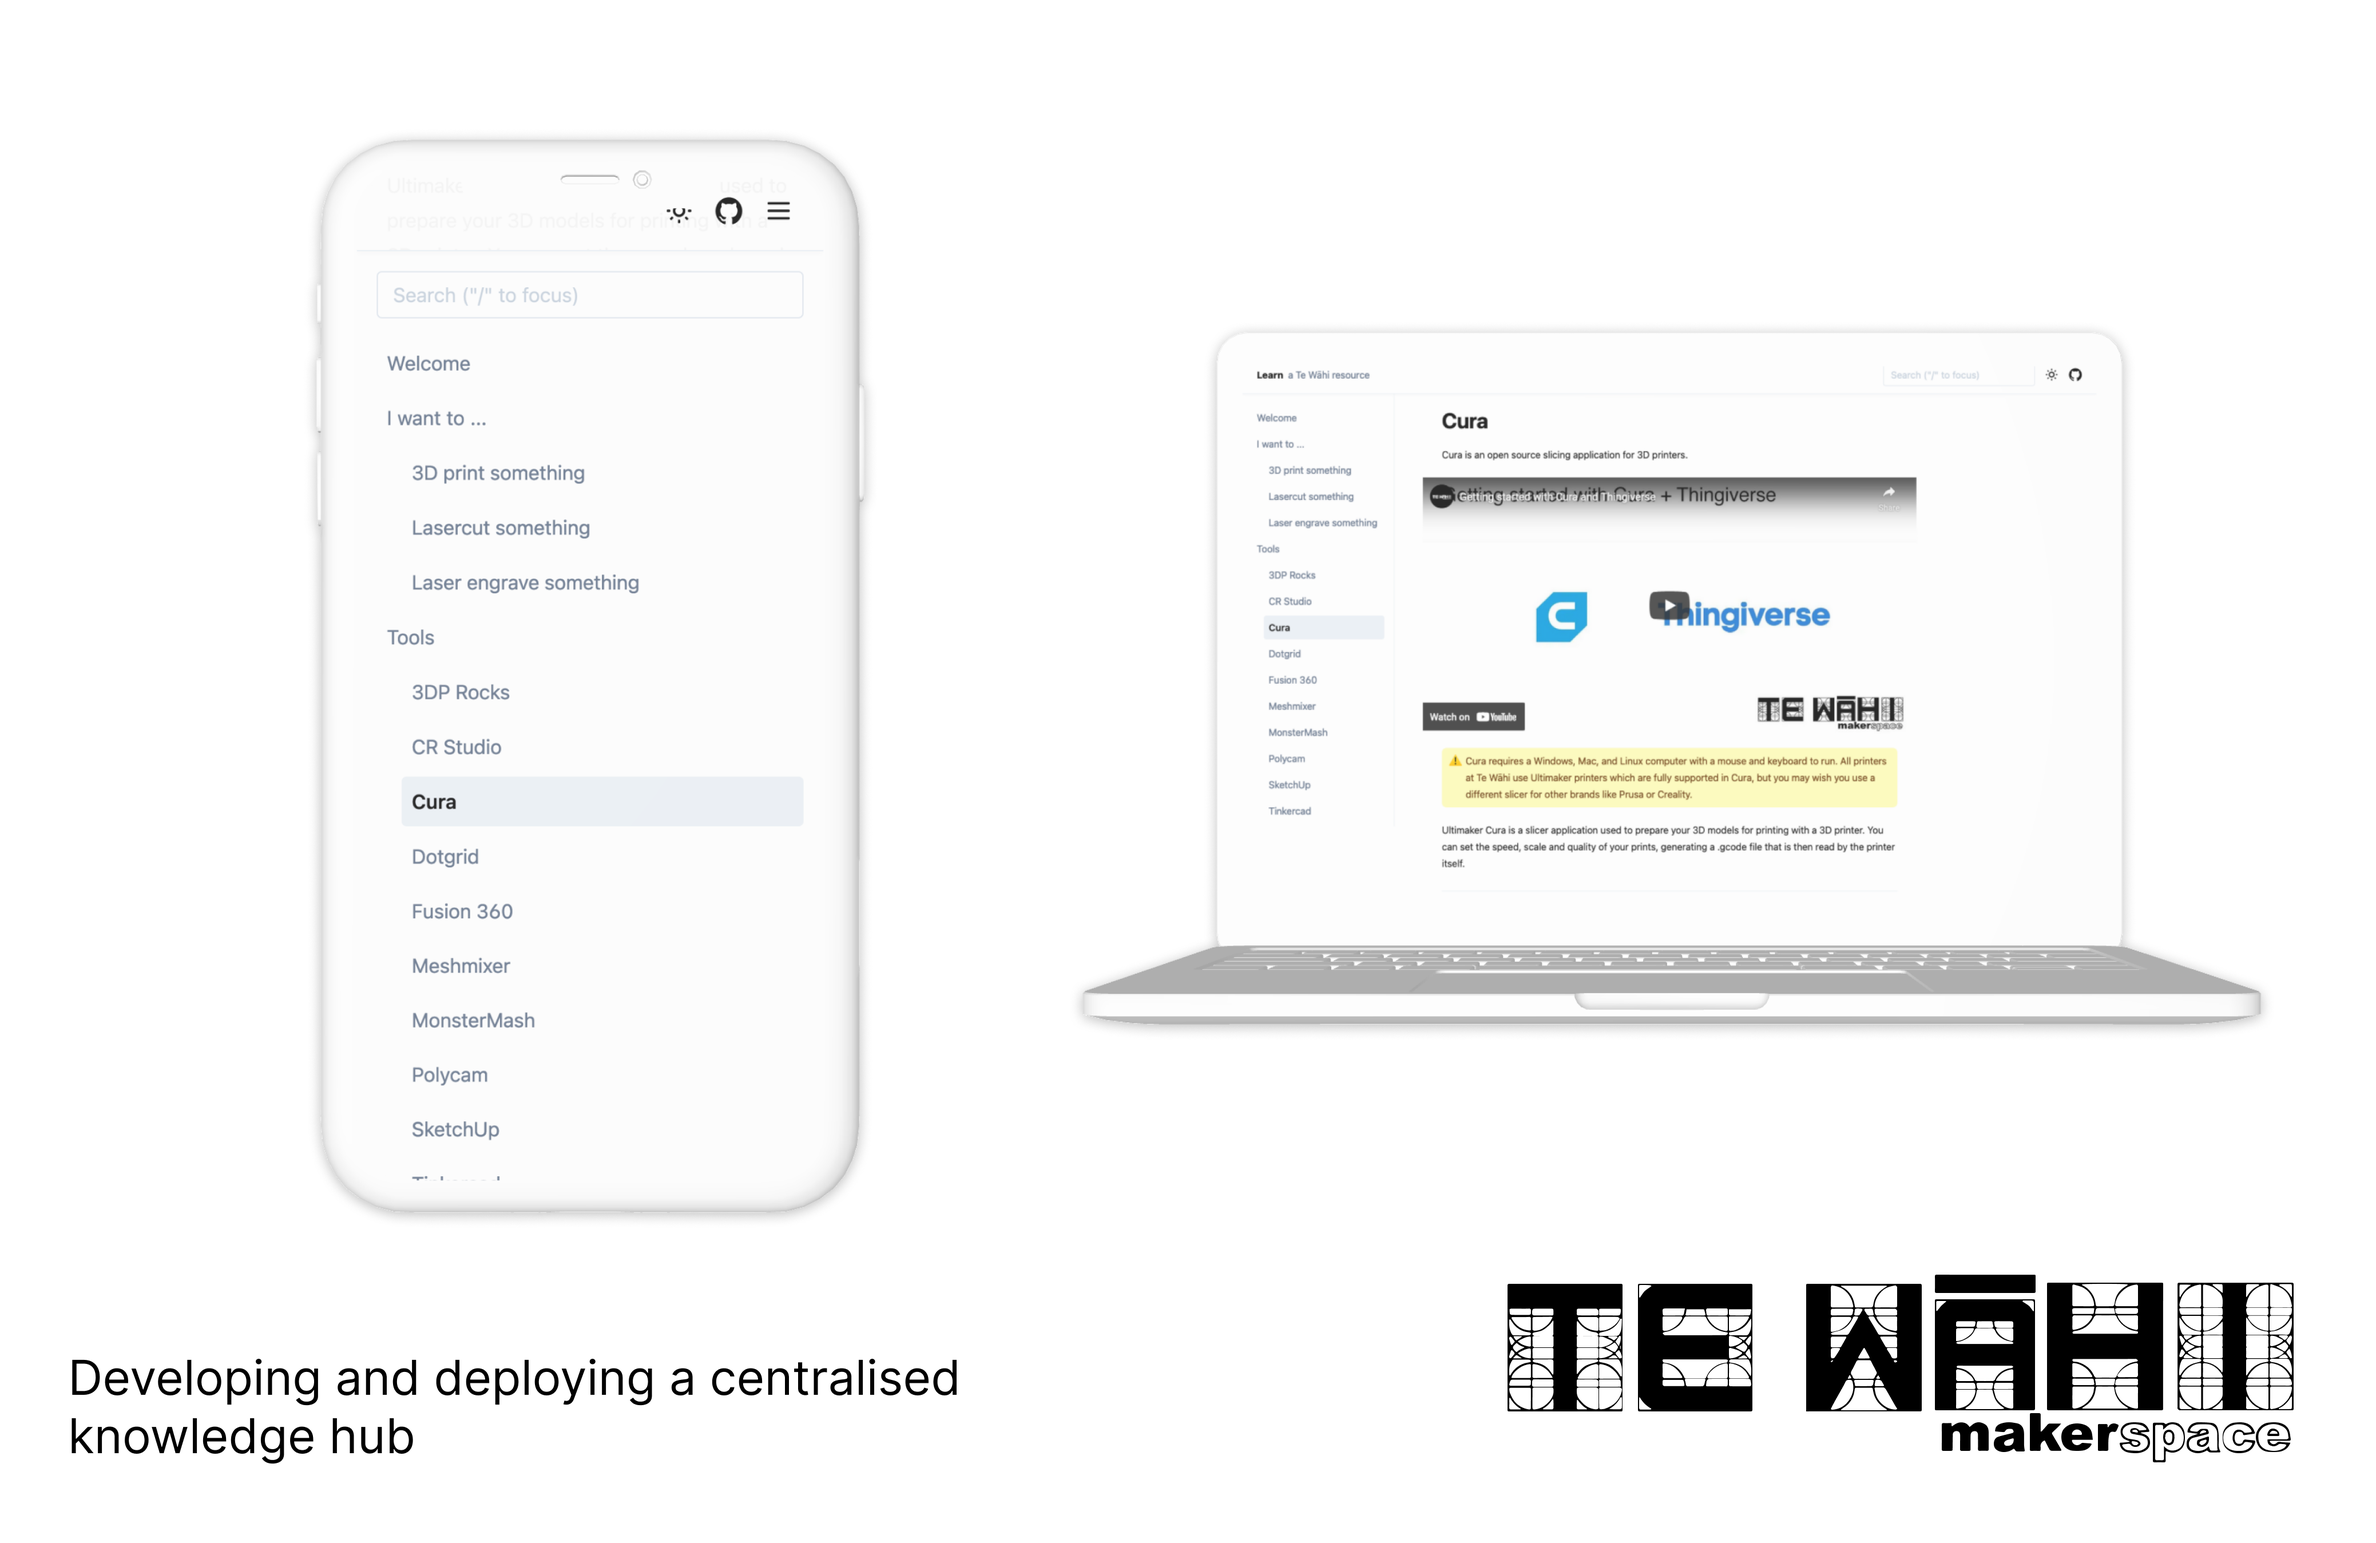
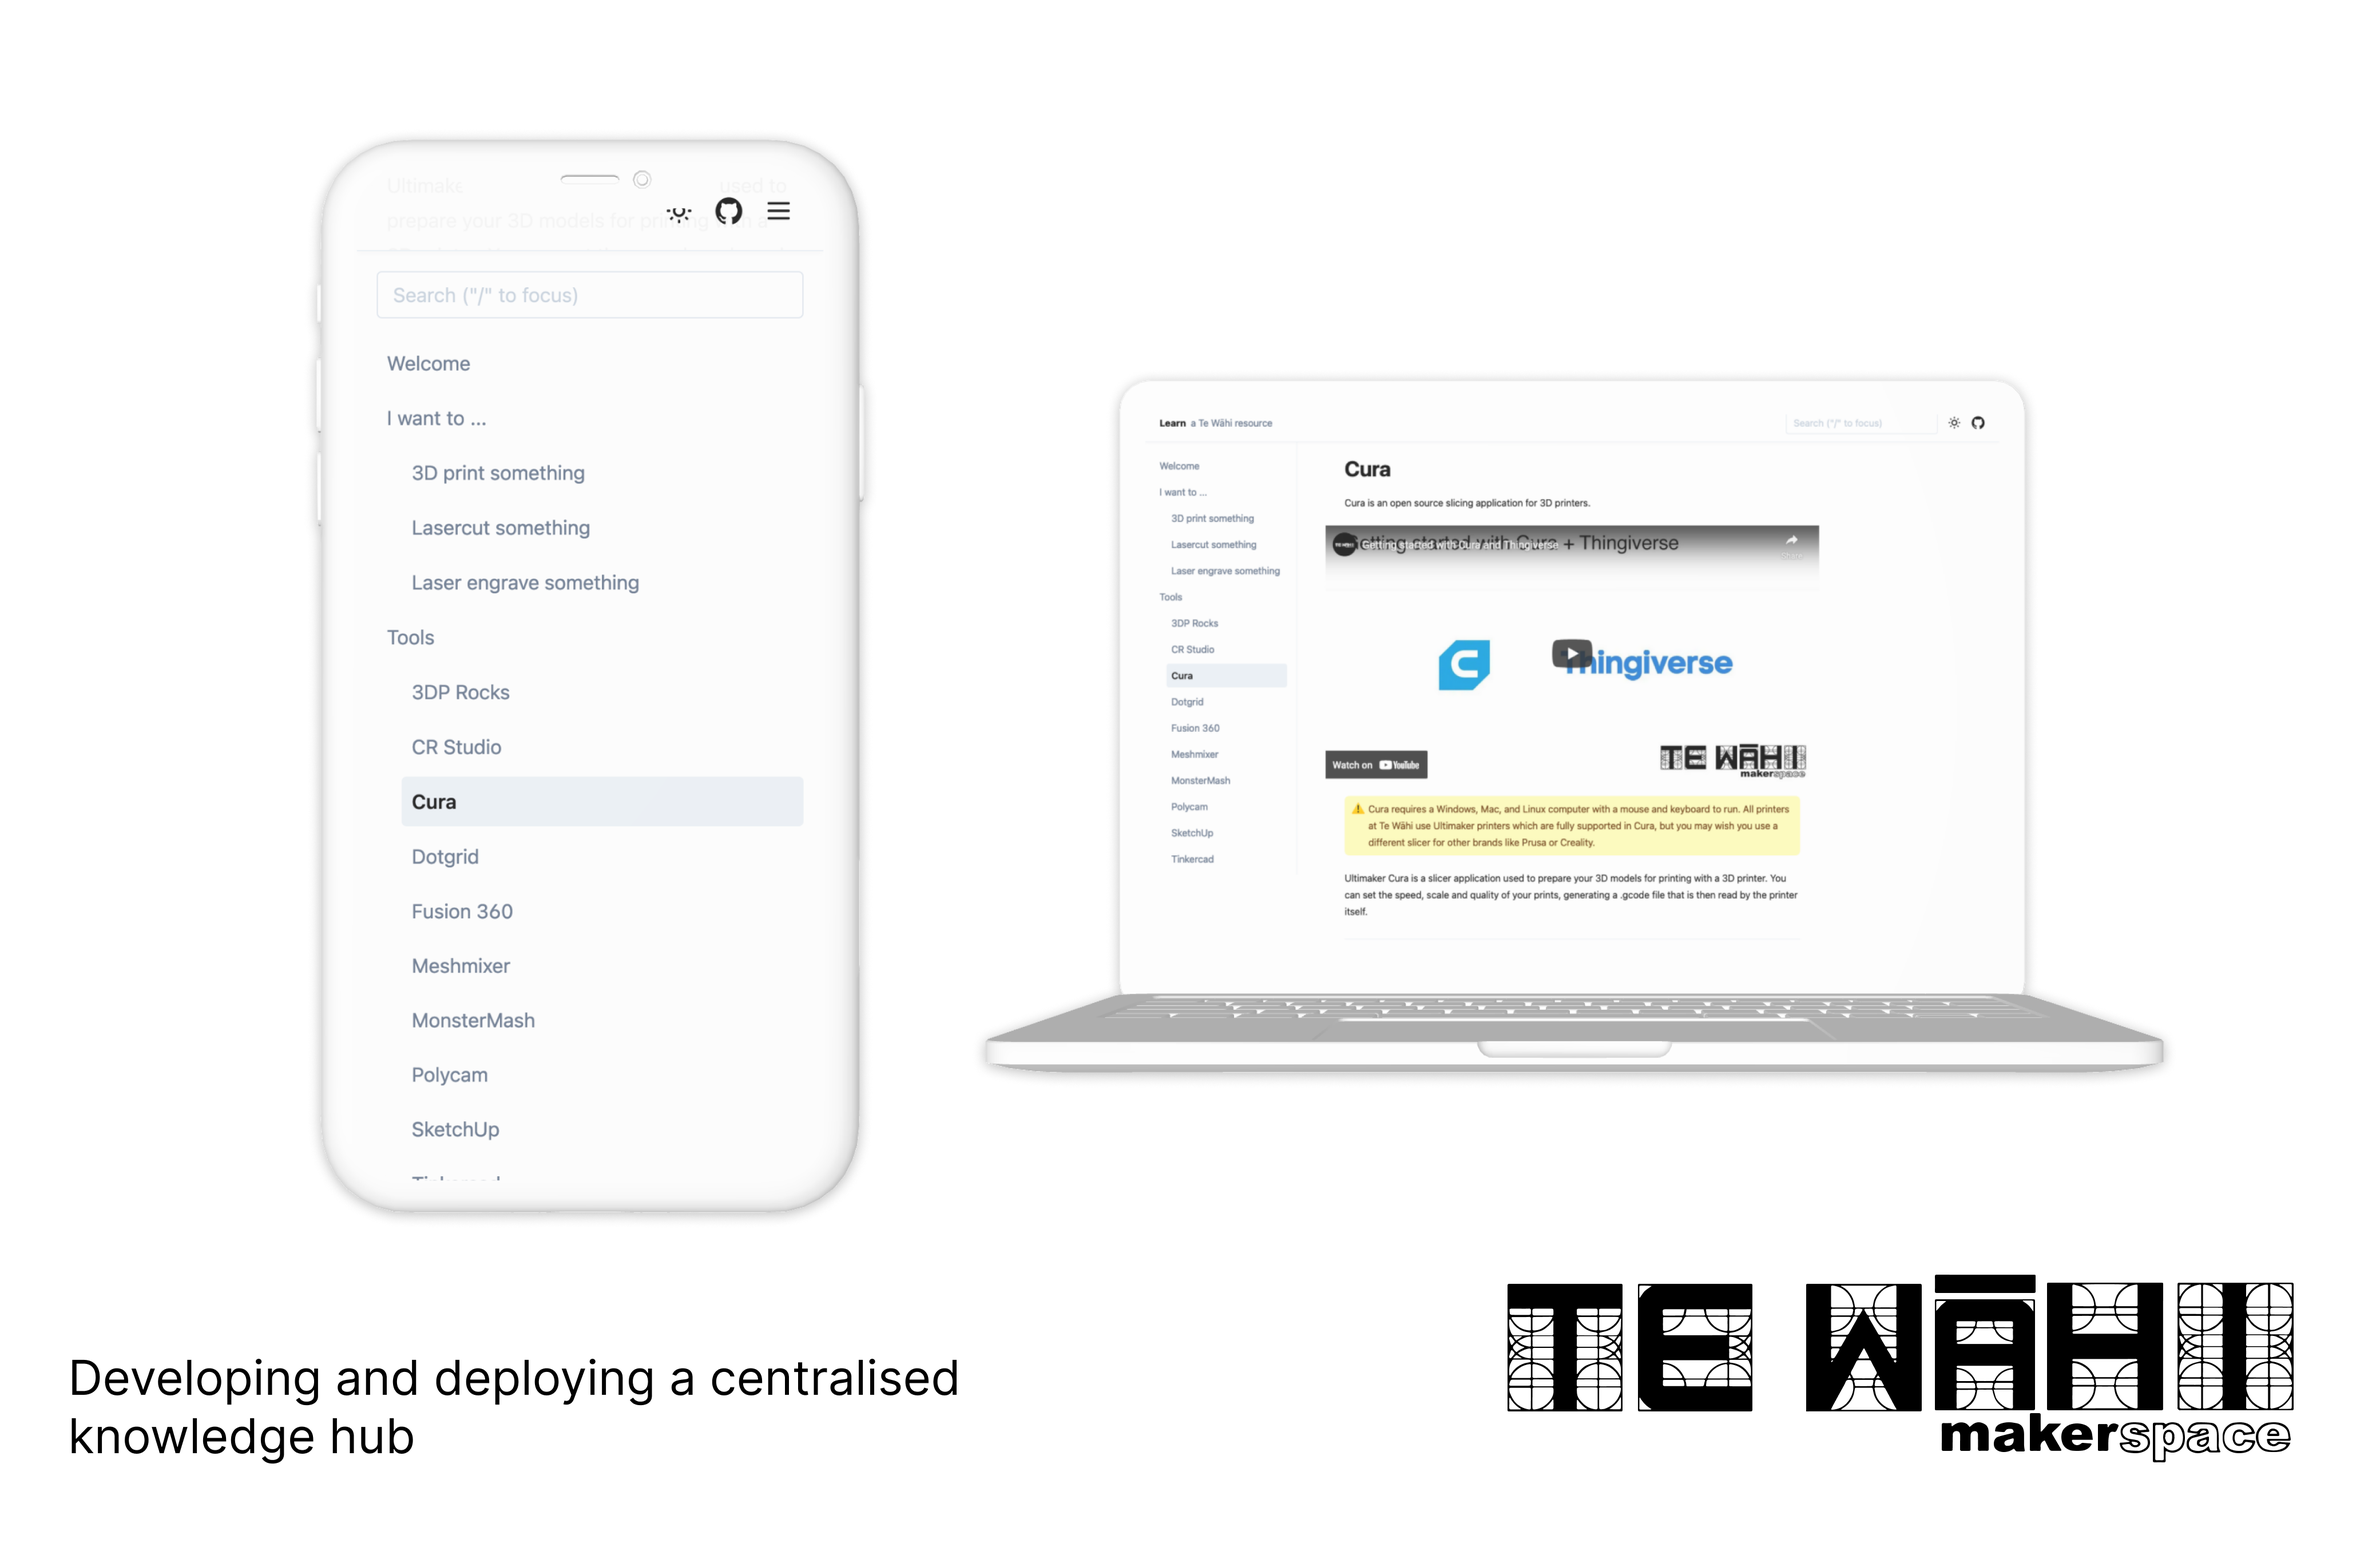
Added changes

Changed region(s): [[0.4038, 0.2803, 0.9629, 0.7164], [0.497, 0.2492, 0.5281, 0.2803]]

diff --git a/content/projects/te-wahi.md b/content/projects/te-wahi.md
@@ -6,9 +6,8 @@ dateEnd: 2022-02-08
 media:
   - type: image
     filename: hero-twa.png
-    size: sm
+    size: md
     alt: Some sample screens of the Te Wāhi Learn online hub
-    caption: "[Source &nearr;](/media/hero-twa.png)"
 ---
 
 <h2>Developing and deploying a centralised knowledge hub </h2>
